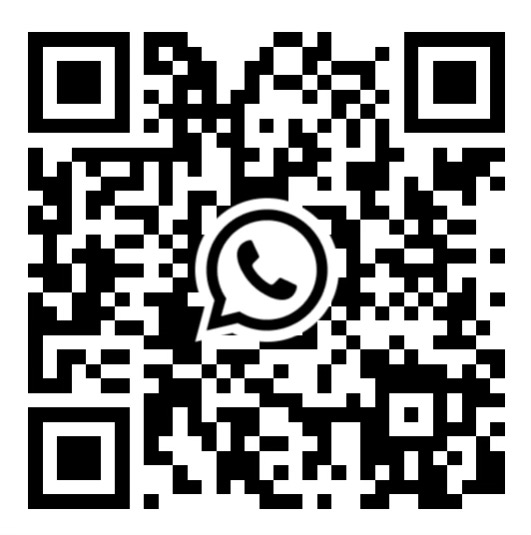
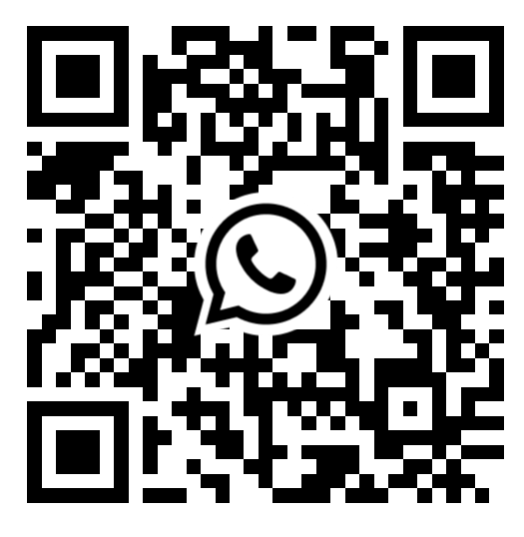
feat: update qr code and link display

diff --git a/src/components/layout/Footer.js b/src/components/layout/Footer.js
@@ -12,7 +12,7 @@ import {
     MUTUAL_AID_NEWSLETTER_SUBSCRIBE_LINK,
     MUTUAL_AID_PHONE_NUMBER,
     MUTUAL_AID_PHONE_NUMBER_COUNTRY_CODE,
-    MUTUAL_AID_WHATSAPP_GROUP_LINK
+    MUTUAL_AID_WHATSAPP_GROUP
 } from "../../config.js"
 
 const footer = () => (
@@ -22,7 +22,7 @@ const footer = () => (
             <div className="stay-connected">
                 <div className="title capitalize"><b>clinton hill fort greene mutual aid</b></div>
                 <div className="subtitle"><a href={MUTUAL_AID_NEWSLETTER_SUBSCRIBE_LINK} alt={`subscribe to newsletter link: ${MUTUAL_AID_NEWSLETTER_SUBSCRIBE_LINK}`} target="_blank" rel="noreferrer">Subscribe</a> to our newsletter</div>
-                <div className="subtitle"><a href={MUTUAL_AID_WHATSAPP_GROUP_LINK} alt={`whatsapp group link: ${MUTUAL_AID_WHATSAPP_GROUP_LINK}`} target="_blank" rel="noreferrer">Text</a> with us on WhatsApp</div>
+                <div className="subtitle">Chat with us on WhatsApp at: <b>{MUTUAL_AID_WHATSAPP_GROUP}</b></div>
             </div>
             <div className="whatsapp-qr-code">
                 <img height="100px" src={whatsappQrCode} alt="QR code that links to a WhatsApp group"></img>

diff --git a/src/components/pages/GiveHelp.js b/src/components/pages/GiveHelp.js
@@ -3,7 +3,7 @@ import "./GiveHelp.css";
 import peopleMakingDonationsIMG from "../../assets/people-making-donations.png"
 import newsletterIMG from "../../assets/newsletter.png"
 import pullingBoxesIMG from "../../assets/pulling-boxes.png"
-import { MUTUAL_AID_WHATSAPP_GROUP_LINK, MUTUAL_AID_WIKIPEDIA, MUTUAL_AID_NOTION_LINK, FLYER_PDF_LINK } from "../../config.js"
+import { MUTUAL_AID_WHATSAPP_GROUP, MUTUAL_AID_WIKIPEDIA, MUTUAL_AID_NOTION_LINK, FLYER_PDF_LINK } from "../../config.js"
 
 function GiveHelp() {
     return (
@@ -40,7 +40,7 @@ function Help() {
                 </div>
                 <div className="fancy-list-container standard-text">
                     <span><b>3</b></span>
-                    <span>Join us on <a className="text-important" href={MUTUAL_AID_WHATSAPP_GROUP_LINK} alt="mutual aid whatsapp link" target="_blank" rel="noreferrer">WhatsApp</a> to organize with other volunteers</span>
+                    <span>Join us on WhatsApp at: <br/><b>{MUTUAL_AID_WHATSAPP_GROUP}</b><br/> to organize with other volunteers</span>
                 </div>
             </div>
         </div>

diff --git a/src/config.js b/src/config.js
@@ -17,7 +17,7 @@ export const COVID_TEXTING_HOTLINE = "692-692",
     MUTUAL_AID_PHONE_NUMBER_COUNTRY_CODE = "+1",
     MUTUAL_AID_REQUEST_FORM = "https://www.notion.so/Request-Form-59ad7cb64f904b1db0a0cad6c0171aac",
     MUTUAL_AID_SLACK_LINK = "https://chfgmutualaid.slack.com/join/shared_invite/zt-dol9r5tu-Af~7Y5IIpCW17oOL~wBa1A#/",
-    MUTUAL_AID_WHATSAPP_GROUP_LINK = "https://chat.whatsapp.com/G3YvlCL6wK50BiqHQA8WYA",
+    MUTUAL_AID_WHATSAPP_GROUP = "chat (dot) whatsapp (dot) com (slash) EImns277Gcp4rqlqS8qvJF",
     MUTUAL_AID_WIKIPEDIA = "https://en.wikipedia.org/wiki/Mutual_aid_(organization_theory)#:~:text=In%20organization%20theory%2C%20mutual%20aid,another%20and%20changing%20political%20conditions.",
     NOTIFY_NYC_LINK = "https://a858-nycnotify.nyc.gov/notifynyc",
     NYC_WELL_LINK = "https://nycwell.cityofnewyork.us/en/";

diff --git a/src/components/pages/About.service.js b/src/components/pages/About.service.js
@@ -10,11 +10,6 @@ export const stayUpToDateCards = [{
     text: "Subscribe to our newsletter",
     link: MUTUAL_AID_NEWSLETTER_SUBSCRIBE_LINK,
 }, {
-    image: iconMessagesIMG,
-    alt: "whatsapp link icon",
-    text: "Join the conversation on WhatsApp",
-    link: MUTUAL_AID_WHATSAPP_GROUP_LINK,
-}, {
     image: iconPicIMG,
     alt: "instagram link icon",
     text: "Follow us on Instagram for updates",
